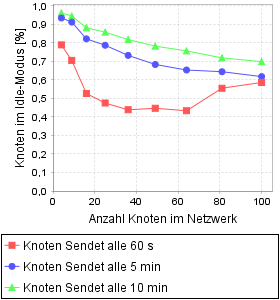
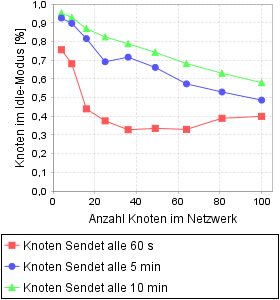
update

diff --git a/src/DSDV/DsdvNetworkNode.java b/src/DSDV/DsdvNetworkNode.java
@@ -15,6 +15,7 @@ public class DsdvNetworkNode extends NetworkNode{
 	private LinkedList<PayloadMessage> msgWaintingBuffer;
 	private long sequenceNumber;
 	private boolean propagateNetworkStructure;
+	UpdateMessage incrementalUpdateMessage;
 	
 	
 	public DsdvNetworkNode(int id) {
@@ -39,22 +40,40 @@ public class DsdvNetworkNode extends NetworkNode{
 				lastUpdate += executionTime;
 			}
 		}
-		/*
-		if(this.isNeighborTurnedOff()){
-			
+		
+		if(simulator.getNetworkLifetime() % 2000 == 0){
+			if(this.isNeighborTurnedOff()){
+				//new neighbor is turned off
+				this.sendMsg(incrementalUpdateMessage);
+			}
 		}
-		*/
+		
 	}
 	
 	private boolean isNeighborTurnedOff(){
 		boolean newTurnedOffNodeDetected = false;
 		
+		incrementalUpdateMessage = new UpdateMessage();
+		
 		for(ForwardTableEntry entry: forwardTable){
 			if(entry.getMetric() == 1){
-				if(entry.getInstallTime() < simulator.getNetworkLifetime() - 3 * UPDATE_INTERVAL){
+				if(entry.getInstallTime() < simulator.getNetworkLifetime() - 2 * UPDATE_INTERVAL){
 					entry.setMetric(Integer.MAX_VALUE);
 					entry.setSequenceNumber(entry.getSequenceNumber() + 1);
 					newTurnedOffNodeDetected = true;
+					
+					
+					
+					for(ForwardTableEntry destEntry: forwardTable){
+						if(destEntry.getNextHop() == entry.getDestination()){
+							destEntry.setMetric(Integer.MAX_VALUE);
+							destEntry.setSequenceNumber(destEntry.getSequenceNumber()+1);
+							destEntry.setNextHop(-1);
+							
+							UpdateMessageEntry updateEntry = new UpdateMessageEntry(destEntry.getDestination(), destEntry.getMetric(), destEntry.getSequenceNumber());
+							incrementalUpdateMessage.addUpdate(updateEntry);
+						}
+					}
 				}
 			}
 		}
@@ -97,7 +116,7 @@ public class DsdvNetworkNode extends NetworkNode{
 			if(receivedMsg instanceof PayloadMessage){
 				//System.out.println(simulator.getNetworkLifetime() + " - Node " + id + ": recive Payloadmsg from Node " + receivedMsg.getSenderID() + ". Source: " + ((PayloadMessage)receivedMsg).getPayloadSourceAdress() + " Sink: " + ((PayloadMessage)receivedMsg).getPayloadDestinationAdress() + " NextHop: "+ receivedMsg.getDestinationID()
 				if(((PayloadMessage)receivedMsg).getPayloadDestinationAdress() == this.id){
-					System.out.println(simulator.getNetworkLifetime() + " - Node " + id + ": recive Payloadmsg from Node " + receivedMsg.getSenderID() + ". Source: " + ((PayloadMessage)receivedMsg).getPayloadSourceAdress() + " TransmissionTime: " + (simulator.getNetworkLifetime() - receivedMsg.getStartTransmissionTime()));
+					//System.out.println(simulator.getNetworkLifetime() + " - Node " + id + ": recive Payloadmsg from Node " + receivedMsg.getSenderID() + ". Source: " + ((PayloadMessage)receivedMsg).getPayloadSourceAdress() + " TransmissionTime: " + (simulator.getNetworkLifetime() - receivedMsg.getStartTransmissionTime()));
 				}
 				this.receivePayloadMessage((PayloadMessage)receivedMsg);
 			}
@@ -119,12 +138,24 @@ public class DsdvNetworkNode extends NetworkNode{
 	}
 
 	private void receiveUpdateMessage(UpdateMessage msg) {
+		boolean brokenLinkDetected = false;
+		incrementalUpdateMessage = new UpdateMessage();
+		
 		for(UpdateMessageEntry entry: msg.getUpdates()){
-			this.updateForwardTable(entry, msg.getSenderID());
+			if(this.updateForwardTable(entry, msg.getSenderID())){
+				brokenLinkDetected = true;
+			}
+		}
+		
+		if(brokenLinkDetected){
+			this.sendMsg(incrementalUpdateMessage);
 		}
 	}
 	
-	private void updateForwardTable(UpdateMessageEntry updateMessageEntry, int senderID){
+	private boolean updateForwardTable(UpdateMessageEntry updateMessageEntry, int senderID){
+		
+		boolean brokenLinkDetected = false;
+		
 		for(ForwardTableEntry tableEntry: this.forwardTable){
 			if(tableEntry.getDestination() == updateMessageEntry.getDestination()){
 				
@@ -132,7 +163,16 @@ public class DsdvNetworkNode extends NetworkNode{
 					tableEntry.setSequenceNumber(updateMessageEntry.getSequenceNumber());
 					tableEntry.setNextHop(senderID);
 					tableEntry.setMetric(updateMessageEntry.getMetric() +1);
-					findMessageToSend(updateMessageEntry.getDestination(), updateMessageEntry.getMetric());
+					tableEntry.setInstallTime(simulator.getNetworkLifetime());
+					
+					if(tableEntry.getMetric() == Integer.MAX_VALUE){
+						brokenLinkDetected = true;
+						UpdateMessageEntry updateEntry = new UpdateMessageEntry(tableEntry.getDestination(), tableEntry.getMetric(), tableEntry.getSequenceNumber());
+						incrementalUpdateMessage.addUpdate(updateEntry);
+					}
+					else{
+						findMessageToSend(updateMessageEntry.getDestination(), updateMessageEntry.getMetric());
+					}
 				}
 				else{
 					if((tableEntry.getSequenceNumber() == updateMessageEntry.getSequenceNumber()) && 
@@ -142,7 +182,7 @@ public class DsdvNetworkNode extends NetworkNode{
 						findMessageToSend(updateMessageEntry.getDestination(), updateMessageEntry.getMetric());
 					}		
 				}	
-				return;
+				return brokenLinkDetected;
 			}
 		}
 		
@@ -151,6 +191,8 @@ public class DsdvNetworkNode extends NetworkNode{
 				updateMessageEntry.getMetric()+1, updateMessageEntry.getSequenceNumber(), simulator.getNetworkLifetime());
 		this.forwardTable.add(tableEntry);
 		findMessageToSend(updateMessageEntry.getDestination(), updateMessageEntry.getMetric());
+		
+		return brokenLinkDetected;
 	}
 	
 	private void findMessageToSend(int destinationID, int metric){
@@ -200,10 +242,10 @@ public class DsdvNetworkNode extends NetworkNode{
 					msg.setDestinationID(entry.getNextHop());
 					
 					if(((PayloadMessage)msg).getPayloadSourceAdress() == this.id){
-						System.out.println(simulator.getNetworkLifetime() + " Node: " +this.id + " send msg to node " + ((PayloadMessage)msg).getPayloadDestinationAdress() + ". Distance: " + entry.getMetric());
+						//System.out.println(simulator.getNetworkLifetime() + " Node: " +this.id + " send msg to node " + ((PayloadMessage)msg).getPayloadDestinationAdress() + ". Distance: " + entry.getMetric());
 					}
 					else{
-						System.out.println(simulator.getNetworkLifetime() + " Node: " +this.id + " forward msg to node " + msg.getDestinationID() + ". SinkNode: " + ((PayloadMessage)msg).getPayloadDestinationAdress() +  " Distance: " + entry.getMetric() + " TransmissionTime: " + (simulator.getNetworkLifetime() - msg.getStartTransmissionTime()));
+						//System.out.println(simulator.getNetworkLifetime() + " Node: " +this.id + " forward msg to node " + msg.getDestinationID() + ". SinkNode: " + ((PayloadMessage)msg).getPayloadDestinationAdress() +  " Distance: " + entry.getMetric() + " TransmissionTime: " + (simulator.getNetworkLifetime() - msg.getStartTransmissionTime()));
 					}
 					
 					this.outputBuffer.add(msg);

diff --git a/src/DSDV/DsdvEvaluationUnit.java b/src/DSDV/DsdvEvaluationUnit.java
@@ -484,7 +484,7 @@ public class DsdvEvaluationUnit extends EvaluationUnit {
 			numberOfNodes[i] = Math.pow(networkWidth[i], 2);
 
 			sendTime_10[0][i] = numberOfNodes[i];
-			sendTime_10[1][i] = simulator.partitioningAnalysis(networkWidth[i], 60, payloadSize) / 1000 / 60;
+			sendTime_10[1][i] = simulator.partitioningAnalysis(networkWidth[i], 60, payloadSize) / 1000.0 / 60.0;
 			sendTime_10_IdleMode[0][i] = numberOfNodes[i];
 			sendTime_10_IdleMode[1][i] = simulator.getAverageTimeInIdleMode();
 			sendTime_10_ReciveMode[0][i] = numberOfNodes[i];
@@ -499,7 +499,7 @@ public class DsdvEvaluationUnit extends EvaluationUnit {
 							+ simulator.getNetworkLifetime() / 1000 / 60 + " min");
 
 			sendTime_60[0][i] = numberOfNodes[i];
-			sendTime_60[1][i] = simulator.partitioningAnalysis(networkWidth[i], 5*60, payloadSize) / 1000 / 60;
+			sendTime_60[1][i] = simulator.partitioningAnalysis(networkWidth[i], 5*60, payloadSize) / 1000.0 / 60.0;
 			sendTime_60_IdleMode[0][i] = numberOfNodes[i];
 			sendTime_60_IdleMode[1][i] = simulator.getAverageTimeInIdleMode();
 			sendTime_60_ReciveMode[0][i] = numberOfNodes[i];
@@ -514,7 +514,7 @@ public class DsdvEvaluationUnit extends EvaluationUnit {
 							+ simulator.getNetworkLifetime() / 1000 / 60 + " min");
 
 			sendTime_600[0][i] = numberOfNodes[i];
-			sendTime_600[1][i] = simulator.partitioningAnalysis(networkWidth[i], 10*60, payloadSize) / 1000 / 60;
+			sendTime_600[1][i] = simulator.partitioningAnalysis(networkWidth[i], 10*60, payloadSize) / 1000.0 / 60.0;
 			sendTime_600_IdleMode[0][i] = numberOfNodes[i];
 			sendTime_600_IdleMode[1][i] = simulator.getAverageTimeInIdleMode();
 			sendTime_600_ReciveMode[0][i] = numberOfNodes[i];

diff --git a/src/Simulator/Main.java b/src/Simulator/Main.java
@@ -42,9 +42,9 @@ public class Main {
 		
 		DsdvEvaluationUnit dsdvEvaluationUnit = new DsdvEvaluationUnit();
 		//dsdvEvaluationUnit.evaluateSpeedAnalysisWhenNetworkStarts();
-		dsdvEvaluationUnit.evaluateSpeedAnalysis();
+		//dsdvEvaluationUnit.evaluateSpeedAnalysis();
 		//dsdvEvaluationUnit.evaluateCostAnalysis();
 		//dsdvEvaluationUnit.evaluateNetworkLivetimeStaticSendBehaviorOneDestination(100);
-		//dsdvEvaluationUnit.evaluateNetworkPartitioningAnalysis(100);
+		dsdvEvaluationUnit.evaluateNetworkPartitioningAnalysis(100);
 	}
 }
